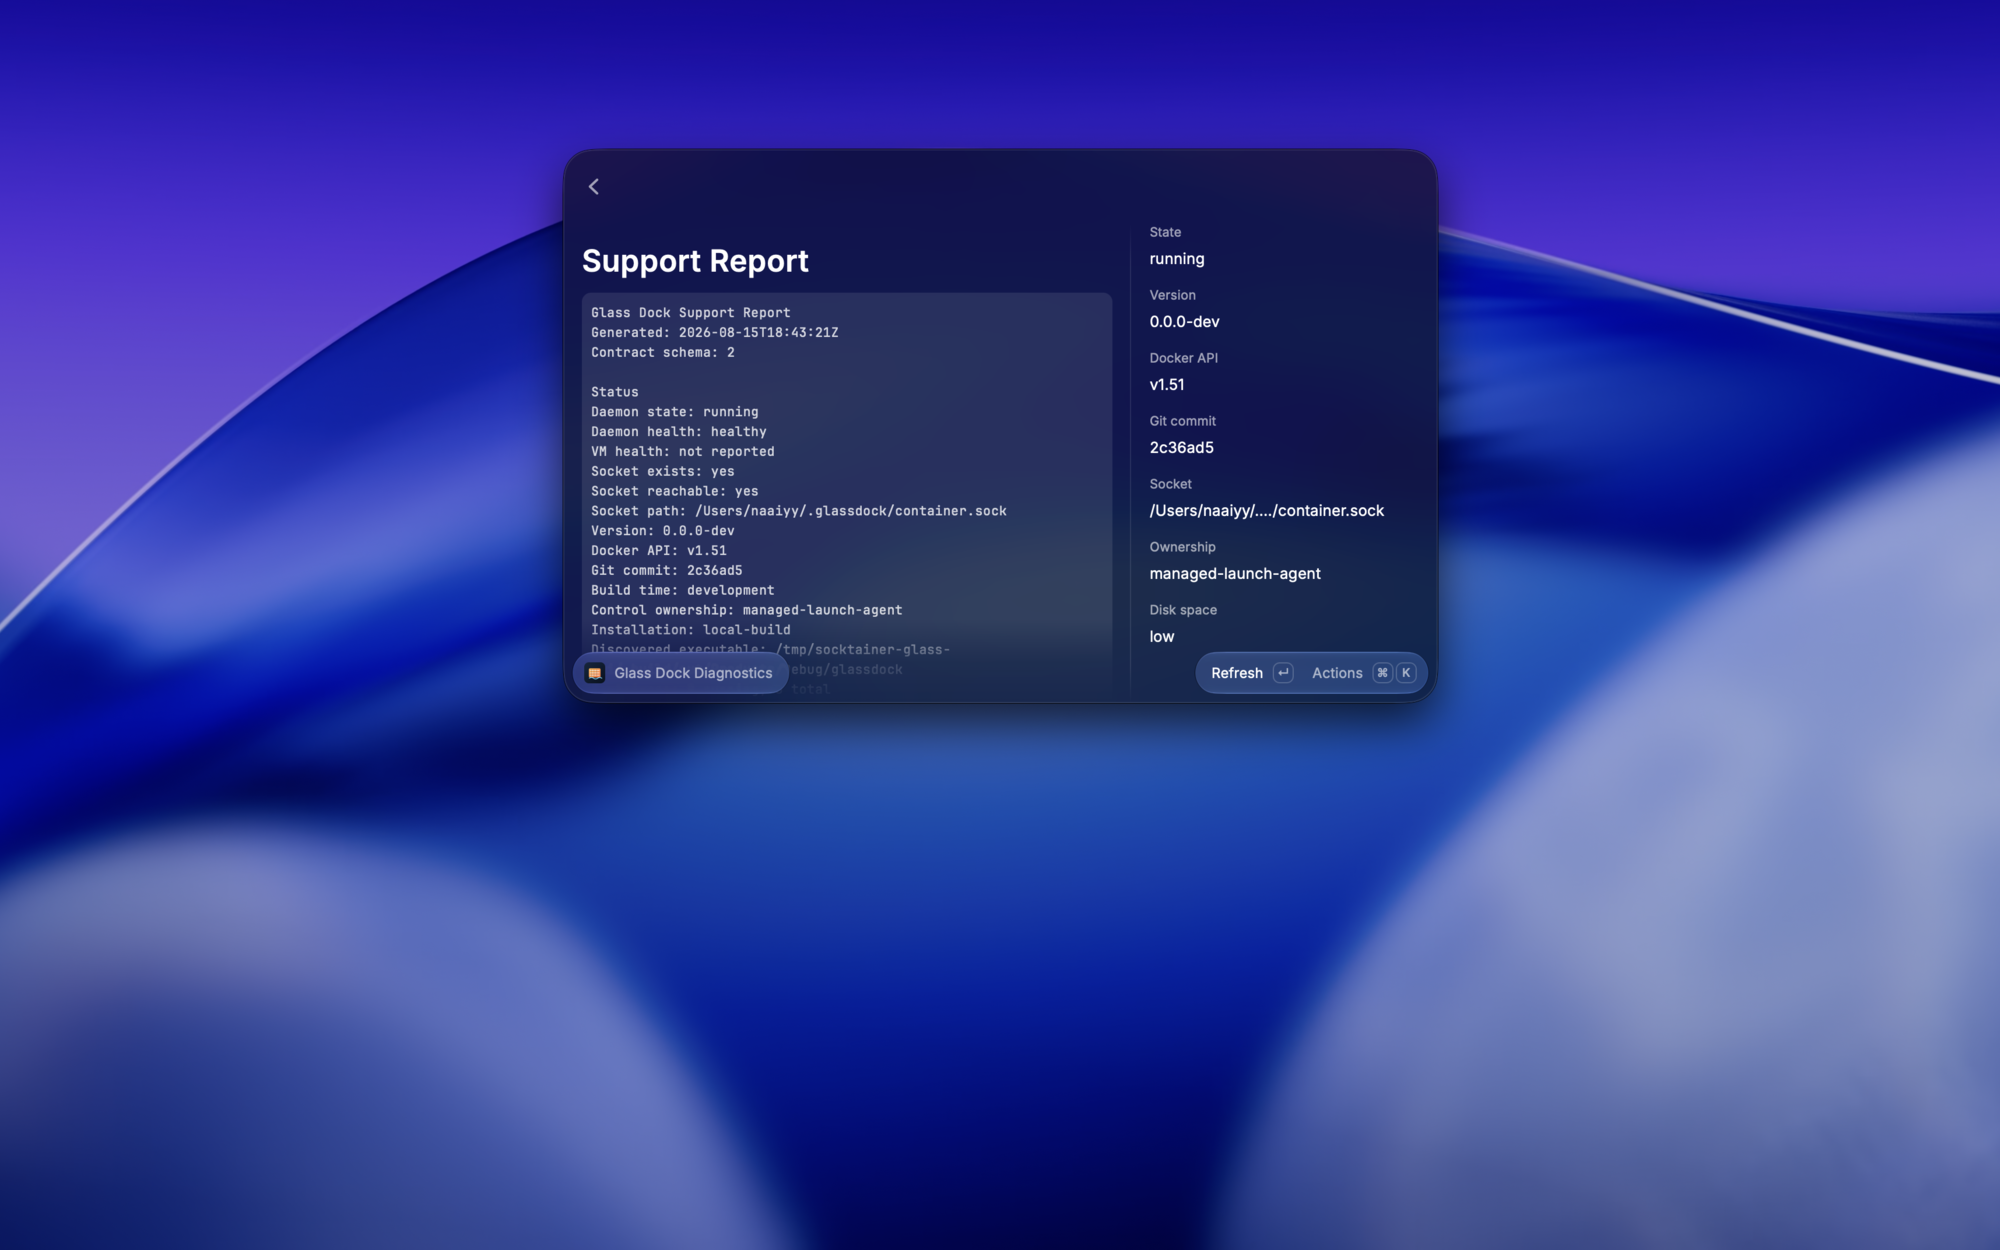
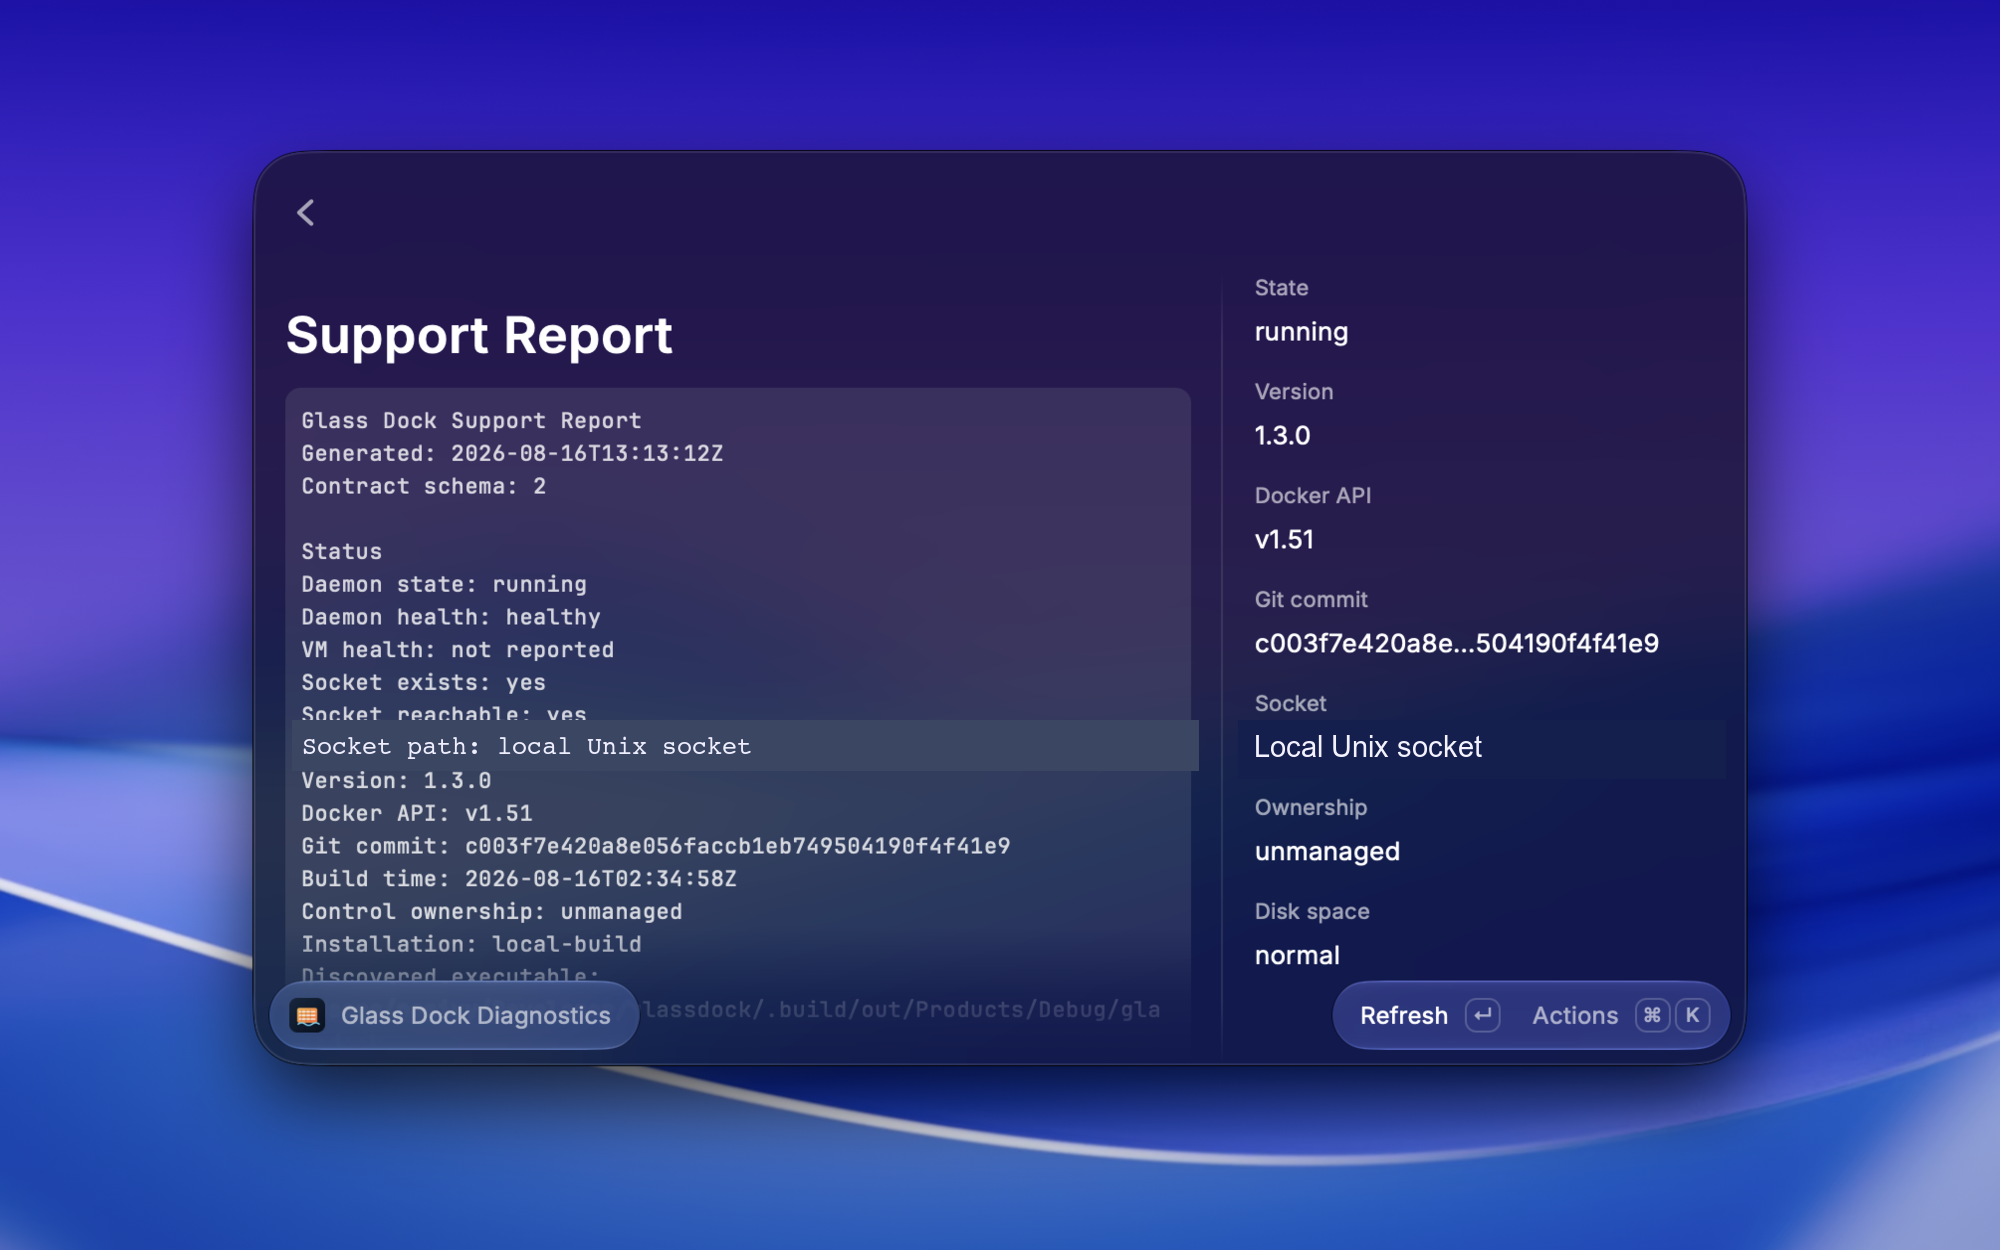
chore(raycast): refresh Glass Dock store screenshots
Refresh Raycast store metadata and screenshots for Glass Dock.

diff --git a/raycast/src/glass-dock.tsx b/raycast/src/glass-dock.tsx
@@ -30,6 +30,12 @@ export default function GlassDock() {
     });
     try {
       const result = await runAction(arguments_);
+      if (!result.succeeded) {
+        toast.style = Toast.Style.Failure;
+        toast.title = `${subject} action failed`;
+        toast.message = result.message;
+        return;
+      }
       toast.style = Toast.Style.Success;
       toast.title = result.message;
       await revalidate();
@@ -169,6 +175,7 @@ function StatusDetail({
   const running = snapshot.containers.filter(
     (container) => container.state === "running",
   ).length;
+  const canMutateManagedDaemon = snapshot.daemon.managed && running === 0;
   return (
     <Detail
       navigationTitle="Glass Dock Status"
@@ -225,7 +232,7 @@ function StatusDetail({
               icon={Icon.Play}
               onAction={() => perform(["daemon", "start"], "Glass Dock")}
             />
-          ) : snapshot.daemon.managed ? (
+          ) : canMutateManagedDaemon ? (
             <>
               <Action
                 title="Restart Glass Dock"

diff --git a/raycast/raycast-env.d.ts b/raycast/raycast-env.d.ts
@@ -8,9 +8,10 @@
 /* eslint-disable @typescript-eslint/ban-types */
 
 type ExtensionPreferences = {
-  /** glassdockctl Executable - Optional absolute path to glassdockctl. Standard install locations are detected automatically. */
+  /** Glass Dock Control Executable - Optional absolute path to glassdockctl. Standard install locations are detected automatically. */
   "controlExecutable"?: string
 }
+
 /** Preferences accessible in all the extension's commands */
 declare type Preferences = ExtensionPreferences
 
@@ -23,3 +24,4 @@ declare namespace Arguments {
   /** Arguments passed to the `glass-dock` command */
   export type GlassDock = {}
 }
+

diff --git a/raycast/src/control.ts b/raycast/src/control.ts
@@ -6,10 +6,6 @@ import { promisify } from "node:util";
 
 const executeFile = promisify(execFile);
 
-type Preferences = {
-  controlExecutable?: string;
-};
-
 export type DaemonState = "running" | "starting" | "stopped" | "unhealthy";
 
 export type ContainerSummary = {

diff --git a/raycast/eslint.config.js b/raycast/eslint.config.js
@@ -1,3 +1,4 @@
 import raycastConfig from "@raycast/eslint-config";
+import { defineConfig } from "eslint/config";
 
-export default [...raycastConfig];
+export default defineConfig([...raycastConfig]);

diff --git a/raycast/README.md b/raycast/README.md
@@ -15,7 +15,7 @@ The extension checks these standard command locations:
 - `/opt/homebrew/bin/glassdockctl`
 - `/usr/local/bin/glassdockctl`
 
-If the command is elsewhere, set **glassdockctl Executable** in the extension
+If the command is elsewhere, set **Glass Dock Control Executable** in the extension
 preferences to its absolute path.
 
 ## Command
